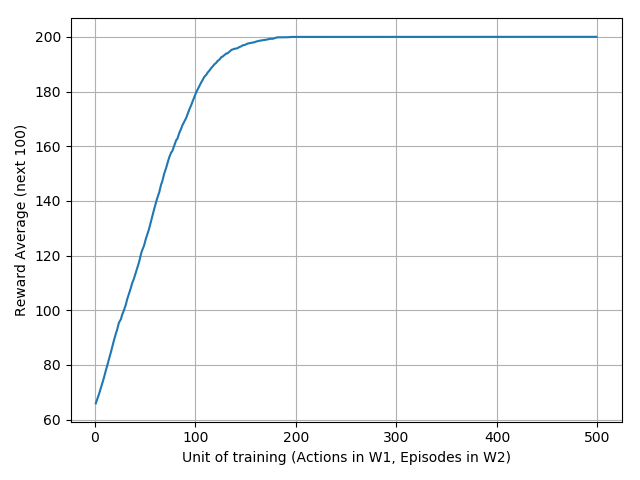
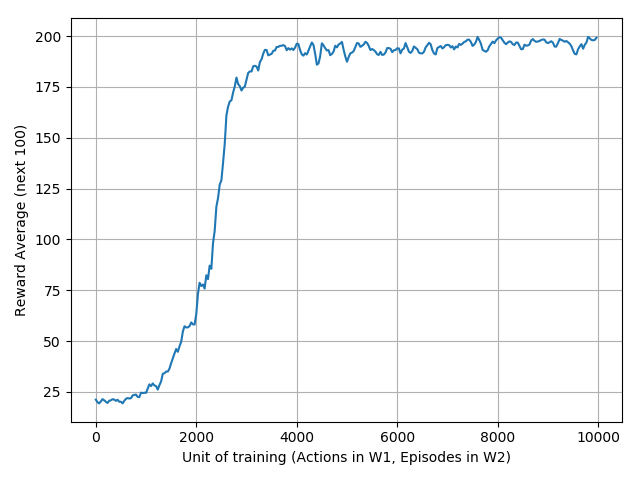
re-write A2C and QRA2C.

diff --git a/algorithms/A2C.py b/algorithms/A2C.py
@@ -56,7 +56,6 @@ class A2C(object):
         self.actor_lr = actor_lr
         self.critic_lr = critic_lr
         self.N = N
-        self.replay_memory = replay_memory
         self.tau = tau
         self.scope_pre = scope_pre
         self.build()
@@ -75,10 +74,10 @@ class A2C(object):
         self.critic_target = VNetwork(self.hidden_dims, self.scope_pre+'target_critic')
 
     def build_placeholder(self):
-        self.states = tf.placeholder(tf.float32, shape=[None, self.state_dim+1])
+        self.states = tf.placeholder(tf.float32, shape=[None, self.state_dim])
         self.actions = tf.placeholder(tf.int32, shape=[None,1])
         self.rewards = tf.placeholder(tf.float32, shape=[None])
-        self.nexts = tf.placeholder(tf.float32, shape=[None, self.state_dim+1])
+        self.nexts = tf.placeholder(tf.float32, shape=[None, self.state_dim])
         self.are_non_terminal = tf.placeholder(tf.float32, shape=[None])
         self.training = tf.placeholder(tf.bool)
     
@@ -88,26 +87,27 @@ class A2C(object):
             tf.get_collection(tf.GraphKeys.TRAINABLE_VARIABLES, scope=self.scope_pre+'target_critic'), self.tau)
 
     def build_loss(self):
-        with tf.variable_scope(self.scope_pre+'normalize_states'):
-            bn = tf.layers.BatchNormalization(_reuse=tf.AUTO_REUSE)
-            states = bn.apply(self.states[:, :-1], training=self.training)
-            nexts = bn.apply(self.nexts[:, :-1], training=self.training)
-        prob = self.states[:, -1]
+        #with tf.variable_scope(self.scope_pre+'normalize_states'):
+        #    bn = tf.layers.BatchNormalization(_reuse=tf.AUTO_REUSE)
+        #    states = bn.apply(self.states, training=self.training)
+        #    nexts = bn.apply(self.nexts, training=self.training)
+        states = self.states
+        nexts = self.nexts
         batch_size = tf.shape(states)[0]
         batch_indices = tf.range(batch_size,dtype=tf.int32)[:, None]
         target_value = tf.stop_gradient(self.rewards[:, None]+self.are_non_terminal[:, None] * \
                    np.power(self.gamma, self.N) * self.critic_target(nexts))
         value = self.critic(states)
-        self.critic_loss = tf.reduce_mean((value-target_value)**2)
+        self.critic_loss = tf.losses.mean_squared_error(value, target_value)
         self.logits = self.actor(states)
         self.pi = tf.nn.softmax(self.logits, axis=-1)
-        log_pi = tf.log(self.pi+1e-9)
+        log_pi = tf.log(self.pi)
         action_indices = tf.concat([batch_indices, self.actions], axis=1)
-        log_action_prob = tf.gather_nd(log_pi, action_indices)/prob
-        EA = tf.stop_gradient(self.rewards
-                              +self.gamma*tf.reduce_mean(self.critic(nexts), axis=1)
-                              -tf.reduce_mean(self.critic(states), axis=1))
-        self.actor_loss = -tf.reduce_mean(EA*log_action_prob)
+        log_action_prob = tf.gather_nd(log_pi, action_indices)[:, None]
+        advantage = target_value-value
+        pg_loss = advantage*log_action_prob
+        #entropy_loss = -0.01*self.pi*log_pi
+        self.actor_loss = -tf.reduce_mean(pg_loss)
 
     def build_step(self):
         self.global_step = tf.Variable(0, trainable=False)
@@ -133,25 +133,24 @@ class A2C(object):
         total_rewards = []
         sess.run([self.init_critic])
         for i_episode in tqdm(range(train_episodes), ncols=100):
-            total_reward = self.collect_trajectory()
+            states, actions, returns, nexts, are_non_terminal, total_reward = self.collect_trajectory()
             append_summary(progress_fd, str(start_episode + i_episode) + ',{0:.2f}'.format(total_reward))
             total_rewards.append(total_reward)
-            states, actions, rewards, nexts, are_non_terminal = self.replay_memory.sample_batch(step * batch_size)
-            for t in range(step):
-                sess.run([self.critic_step],
-                         feed_dict={self.states: states[t * batch_size: (t + 1) * batch_size],
-                                    self.actions: actions[t * batch_size: (t + 1) * batch_size],
-                                    self.rewards: rewards[t * batch_size: (t + 1) * batch_size],
-                                    self.nexts: nexts[t * batch_size: (t + 1) * batch_size],
-                                    self.are_non_terminal: are_non_terminal[t * batch_size: (t + 1) * batch_size],
-                                    self.training: True})
-                sess.run([self.actor_step],
-                         feed_dict={self.states: states[t * batch_size: (t + 1) * batch_size],
-                                    self.actions: actions[t * batch_size: (t + 1) * batch_size],
-                                    self.rewards: rewards[t * batch_size: (t + 1) * batch_size],
-                                    self.nexts: nexts[t * batch_size: (t + 1) * batch_size],
-                                    self.training: True})
-                sess.run([self.update_critic])
+            sess.run([self.critic_step],
+                     feed_dict={self.states: states,
+                                self.actions: actions,
+                                self.rewards: returns,
+                                self.nexts: nexts,
+                                self.are_non_terminal: are_non_terminal,
+                                self.training: True})
+            sess.run([self.actor_step],
+                     feed_dict={self.states: states,
+                                self.actions: actions,
+                                self.rewards: returns,
+                                self.nexts: nexts,
+                                self.are_non_terminal: are_non_terminal,
+                                self.training: True})
+            sess.run([self.update_critic])
             # summary_writer.add_summary(summary, global_step=self.global_step.eval())
             if (i_episode + 1) % save_episodes == 0:
                 saver.save(sess, model_path)
@@ -189,47 +188,31 @@ class A2C(object):
     def collect_trajectory(self):
         states, actions, rewards = self.generate_episode()
         states = np.array(states)
-        returns, nexts, are_non_terminal = self.normalize_returns(states[1:], rewards)
+        returns, nexts, are_non_terminal = self.normalize_returns(states[1:],
+                                                                  rewards)
         total_reward = sum(rewards)
-        self.replay_memory.append(states[:-1],
-                                  actions, returns,
-                                  nexts,
-                                  are_non_terminal)
-
-        return total_reward
+        return states[:-1], actions, returns, nexts, are_non_terminal, total_reward
     
     def generate_episode(self, render=False):
-        '''
-        :param epsilon: exploration noise
-        :return:
-        WARNING: make sure whatever you return comes from the same episode
-        '''
         states = []
         actions = []
         rewards = []
-        state = self.env.reset().reshape(1, -1)
+        state = self.env.reset()
         while True:
             pi = self.pi.eval(feed_dict={
-                self.states: np.concatenate([state, np.zeros((1,1))], axis=1),
+                self.states: np.array(state).reshape(1,-1),
                 self.training: False}).squeeze(axis=0)      
-            action = np.random.choice(np.arange(self.n_action), size=None, replace=True, p=pi)
-            prob = pi[action]
-            states.append(np.concatenate([state, np.array([prob]).reshape(1,-1)], axis=1).flatten())
+            action = np.random.choice(np.arange(self.n_action), size=None,
+                                      replace=True, p=pi)
+            states.append(state)
             state, reward, done, _ = self.env.step(action)
-            state = state.reshape(1, -1)
             if render:
                 self.env.render()
             actions.append([action])
             rewards.append(reward)
             if done:
                 break
-        pi = self.pi.eval(feed_dict={
-                self.states: np.concatenate([state, np.zeros((1,1))], axis=1),
-                self.training: False}).squeeze(axis=0)      
-        action = np.random.choice(np.arange(self.n_action), size=None, replace=True, p=pi)
-        prob = pi[action]
-        states.append(np.concatenate([state, np.array([prob]).reshape(1,-1)], axis=1).flatten())
-
+        states.append(state)
 
         assert len(states)  == len(actions)+1 and \
                len(actions) == len(rewards)

diff --git a/main.py b/main.py
@@ -25,11 +25,11 @@ def parse_arguments():
 	                    help='Set this to False when training and True when evaluating.')
 	parser.add_argument('--restore', default=False, action='store_true', help='Restore training')
 	parser.add_argument('--reward-type', default='sparse', help='[sparse, dense]')
-	parser.add_argument('--hidden-dims', default=[256, 256], type=int, nargs='+', help='Hidden dimension of network')
-	parser.add_argument('--gamma', default=1.0, type=float, help='Reward discount')
+	parser.add_argument('--hidden-dims', default=[64, 64], type=int, nargs='+', help='Hidden dimension of network')
+	parser.add_argument('--gamma', default=0.99, type=float, help='Reward discount')
 	parser.add_argument('--tau', default=1e-2, type=float, help='Soft parameter update tau')
 	parser.add_argument('--kappa', default=1.0, type=float, help='Kappa used in quantile Huber loss')
-	parser.add_argument('--n-quantile', default=32, type=int, help='Number of quantile to approximate distribution')
+	parser.add_argument('--n-quantile', default=64, type=int, help='Number of quantile to approximate distribution')
 	parser.add_argument('--actor-lr', default=1e-4, type=float, help='Actor learning rate')
 	parser.add_argument('--critic-lr', default=1e-4, type=float, help='Critic learning rate')
 	parser.add_argument('--n-atom', default=51, type=int, help='Number of atoms used in D3PG')
@@ -42,12 +42,12 @@ def parse_arguments():
 	parser.add_argument('--apply-her', default=False, action='store_true', help='Use HER or not')
 	parser.add_argument('--n-goals', default=10, type=int, help='Number of goals to sample for HER')
 	parser.add_argument('--C', default=1, type=int, help='Number of episodes to copy critic network to target network')
-	parser.add_argument('--N', default=10, type=int, help='N step returns.')
+	parser.add_argument('--N', default=1, type=int, help='N step returns.')
 	parser.add_argument('--plot-dir', default='plot', type=str, )
 	parser.add_argument('--model-dir', default='model', type=str)
 	parser.add_argument('--log-dir', default='log', type=str)
 	parser.add_argument('--progress-file', default='progress.csv', type=str)
-	parser.add_argument('--device', default=3, type=int, help='GPU device number')
+	parser.add_argument('--device', default=1, type=int, help='GPU device number')
 	return parser.parse_args()
 
 

diff --git a/algorithms/QRA2C.py b/algorithms/QRA2C.py
@@ -42,14 +42,14 @@ class QRA2C(A2C):
         self.critic_target = QRVNetwork(self.hidden_dims, self.n_quantile, self.scope_pre+'target_critic')
 
     def build_loss(self):
-        with tf.variable_scope(self.scope_pre+'normalize_states'):
-            bn = tf.layers.BatchNormalization(_reuse=tf.AUTO_REUSE)
-            states = bn.apply(self.states[:, :-1], training=self.training)
-            nexts = bn.apply(self.nexts[:, :-1], training=self.training)
-        prob = self.states[:, -1]
+        #with tf.variable_scope(self.scope_pre+'normalize_states'):
+        #    bn = tf.layers.BatchNormalization(_reuse=tf.AUTO_REUSE)
+        #    states = bn.apply(self.states, training=self.training)
+        #    nexts = bn.apply(self.nexts, training=self.training)
+        states = self.states
+        nexts = self.nexts
         batch_size = tf.shape(states)[0]
         batch_indices = tf.range(batch_size,dtype=tf.int32)[:, None]
-        
         target_Z = tf.stop_gradient(self.rewards[:,None]+self.are_non_terminal[:, None] * \
                    np.power(self.gamma, self.N) * self.critic_target(nexts))
         Z = self.critic(states)
@@ -65,10 +65,10 @@ class QRA2C(A2C):
         self.critic_loss = tf.reduce_mean(tf.reduce_mean(tf.reduce_sum(quantile_huber_loss, axis=2), axis=1), axis=0)
         self.logits = self.actor(states)
         self.pi = tf.nn.softmax(self.logits, axis=-1)
-        log_pi = tf.log(self.pi+1e-9)
+        log_pi = tf.log(self.pi)
         action_indices = tf.concat([batch_indices, self.actions], axis=1)
-        log_action_prob = tf.gather_nd(log_pi, action_indices)/prob
-        EA = tf.stop_gradient(self.rewards
-                              +self.gamma*tf.reduce_mean(self.critic(nexts), axis=1)
-                              -tf.reduce_mean(self.critic(states), axis=1))
-        self.actor_loss = -tf.reduce_mean(EA*log_action_prob)
+        log_action_prob = tf.gather_nd(log_pi, action_indices)[:, None]
+        advantage = tf.stop_gradient(tf.reduce_mean(target_Z, axis=1)
+                              -tf.reduce_mean(Z, axis=1))
+        pg_loss = advantage*log_action_prob
+        self.actor_loss = -tf.reduce_mean(pg_loss)

diff --git a/algorithms/MQRA2C.py b/algorithms/MQRA2C.py
@@ -104,7 +104,7 @@ class MQRA2C(object):
             self.logits_list.append(self.actor_list[agent_id](agent_states))
             pi = tf.nn.softmax(self.logits_list[agent_id], axis=-1)
             self.pi_list.append(pi)
-            log_pi = tf.log(pi+1e-9)
+            log_pi = tf.log(pi)
             action_indices = tf.concat([batch_indices, self.actions[:, agent_id][:, None]], axis=1)
             log_action_prob = tf.gather_nd(log_pi, action_indices) / prob[:, agent_id]     
             pg_loss = -tf.reduce_mean(EA*log_action_prob)
